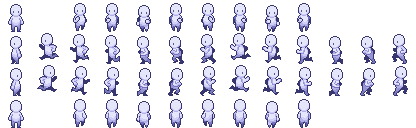
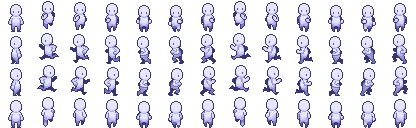
adicionado: Camera dinamica com mouse, particulas ao andar, finalizado animação de andar, update de frames do sprite baseado no tempo real ao inves dos frames atualizados e outras melhorias

diff --git a/src/elements/Dust.java b/src/elements/Dust.java
@@ -1,0 +1,64 @@
+package elements;
+
+import elements.entities.Player;
+import elements.Particle;
+import game.GamePanel;
+import utilities.Global;
+import world.World;
+
+import javax.imageio.ImageIO;
+import java.awt.*;
+import java.awt.image.BufferedImage;
+import java.io.IOException;
+import java.util.ArrayList;
+import java.util.List;
+import java.util.Random;
+
+public class Dust extends Element{
+
+    BufferedImage dust;
+    Player player;
+    Random random = new Random();
+    List<Particle> particles = new ArrayList<Particle>();
+
+    public Dust(GamePanel gp, World world, Player player){
+        super(gp,world);
+        this.player = player;
+    }
+    @Override
+    public void setAttributes() {
+        try {
+            dust = ImageIO.read(getClass().getResourceAsStream("/particles/dust.png"));
+        } catch (IOException e) {
+            e.printStackTrace();
+        }
+        setSize(16,16);
+        setAnchor(16/2,16/2);
+        setPositionByAnchor(300,300);
+        setSprite(dust);
+        sprite.moving = true;
+    }
+
+    @Override
+    public void update(double deltaTime) {
+        if(gp.kh.rightKey || gp.kh.upKey || gp.kh.downKey || gp.kh.leftKey){
+            if(random.nextInt(20) == 0){
+                particles.add(new Particle(player.getAnchorX(),player.getAnchorY() + player.height/2));
+            }
+        }
+
+        for(int i = particles.size() - 1; i >= 0; i--){
+            particles.get(i).sprite.update(deltaTime);
+            particles.get(i).scale-= 20*deltaTime;
+            particles.get(i).y-=0.5;
+            if(particles.get(i).scale <= 0)
+                particles.remove(i);
+        }
+    }
+
+    @Override
+    public void render(Graphics2D g2d) {
+        for(Particle particle : particles)
+            particle.sprite.render(g2d,(int)(particle.getX() - world.camera.x),(int)(particle.getY() - world.camera.y),(int)particle.scale,(int)particle.scale);
+    }
+}

diff --git a/src/world/Camera.java b/src/world/Camera.java
@@ -2,6 +2,8 @@ package world;
 
 import utilities.Global;
 
+import java.awt.*;
+
 public class Camera {
     public double x;
     public double y;
@@ -13,8 +15,10 @@ public class Camera {
     double screenCenterY = Global.SCREENHEIGHT/2;
     double targetX;
     double targetY;
-    double smoothing = 0.08;
+    double smoothing = 6.25;
     boolean lock = true;
+    double mouseX;
+    double mouseY;
 
     World world;
 
@@ -22,11 +26,11 @@ public class Camera {
         this.world = world;
     }
 
-    public void update(){
+    public void update(double deltaTime){
         updateTarget();
         if(lock) {
-            x += (targetX - x) * smoothing;
-            y += (targetY - y) * smoothing;
+            x += (targetX - x) * smoothing * deltaTime;
+            y += (targetY - y) * smoothing * deltaTime;
         }
     }
 
@@ -35,7 +39,22 @@ public class Camera {
     }
 
     void updateTarget(){
-        targetX = world.player.getAnchorX() - screenCenterX;
-        targetY = world.player.getAnchorY() - screenCenterY;
+        double nextTarX = world.player.getAnchorX();
+        double nextTarY = world.player.getAnchorY();
+
+        double tolerance = 3*Global.TILESIZE;
+
+        if(world.gp.cursorPoint != null) {
+            mouseX = world.gp.cursorPoint.getX();
+            mouseY = world.gp.cursorPoint.getY();
+        }
+
+        double moveX = (mouseX - screenCenterX)*0.2;
+        double moveY = (mouseY - screenCenterY)*0.2;
+
+        if(nextTarX - screenCenterX > 0 - tolerance && nextTarX + screenCenterX < world.width + tolerance)
+            targetX = world.player.getAnchorX() - screenCenterX + moveX;
+        if(nextTarY - screenCenterY > 0 - tolerance&& nextTarY + screenCenterY < world.height + tolerance)
+            targetY = world.player.getAnchorY() - screenCenterY + moveY;
     }
 }

diff --git a/src/elements/entities/Player.java b/src/elements/entities/Player.java
@@ -80,17 +80,20 @@ public class Player extends Entity {
         else {
             world.showElementsAnchor = false;
         }
+
+        sprite.update(deltaTime);
+        attack.update(deltaTime);
     }
 
     @Override
     public void render(Graphics2D g2d){
-        shadow.render(g2d,(int)(x - world.camera.x), (int)(y - world.camera.y+ 2*Global.SCALE));
+        shadow.render(g2d,(int)(x - world.camera.x), (int)(y - world.camera.y+ 2*Global.SCALE),width,height);
         if(sprite.orientation == Global.RIGHT || sprite.orientation == Global.UP) {
             renderSwordAndSlash(g2d);
         }
 
         if(!attacking)
-            sprite.render(g2d, (int)(x - world.camera.x), (int)(y - world.camera.y));
+            sprite.render(g2d, (int)(x - world.camera.x), (int)(y - world.camera.y),width,height);
         if(gp.world.showElementsAnchor)
             renderAnchor(g2d);
 
@@ -111,7 +114,7 @@ public class Player extends Entity {
         if(attacking) {
             frameCounter++;
             if(frameCounter >= 10){
-                x += 2;
+                x += 3;
             }
         }
 
@@ -186,8 +189,6 @@ public class Player extends Entity {
         //converter para graus
         angle = Math.toDegrees(angle);
 
-        System.out.println(angle);
-
         if(angle >= 45 && angle <= 135){
             setPlayerOrientation(Global.UP);
         }
@@ -204,7 +205,7 @@ public class Player extends Entity {
 
     private void renderSwordAndSlash(Graphics2D g2d){
         if (attacking)
-            attack.render(g2d, (int)(x - world.camera.x - 64*Global.SCALE), (int)(y - world.camera.y - 64*Global.SCALE));
+            attack.render(g2d, (int)(x - world.camera.x - 64*Global.SCALE), (int)(y - world.camera.y - 64*Global.SCALE),160,160);
     }
 
     private void setPlayerOrientation(int orientation){

diff --git a/src/utilities/Sprite.java b/src/utilities/Sprite.java
@@ -22,7 +22,7 @@ public class Sprite {
     float fillOpacity = 1.0f;
     float fadeTime = 0.04f;
 
-    int frameCounter;
+    double timeElapsed;
     int changeRatio;
 
     public Sprite(BufferedImage spriteSheet, int width, int height, double seconds){
@@ -32,8 +32,9 @@ public class Sprite {
 
         totalOrientation = spriteSheet.getHeight()/height;
         totalFrame = spriteSheet.getWidth()/width;
+        System.out.println(totalFrame);
 
-        changeRatio = (int)(Global.FPS*seconds/totalFrame);
+        changeRatio = (int)(Global.FPS*seconds/(totalFrame - 1));
 
         sprite = new BufferedImage[totalOrientation][totalFrame];
 
@@ -56,15 +57,20 @@ public class Sprite {
         this.frame = frame;
     }
 
-    public void render(Graphics2D g, int x, int y){
+    public void update(double deltaTime){
         if(moving)
-            frameCounter++;
+            timeElapsed += deltaTime;
         else
             frame = 0;
-        if(moving && frameCounter % changeRatio == 0)
+        if(moving && timeElapsed > (1.0/Global.FPS) * changeRatio) {
             frame++;
+            timeElapsed = 0;
+        }
         if(frame >= totalFrame)
             frame = 1;
+    }
+
+    public void render(Graphics2D g, int x, int y,int width, int height){
         g.drawImage(sprite[orientation][frame], x, y, (int)(width*Global.SCALE), (int)(height*Global.SCALE), null);
 
         if (takingDamage) {

diff --git a/src/world/World.java b/src/world/World.java
@@ -1,5 +1,6 @@
 package world;
 
+import elements.Dust;
 import elements.Element;
 import elements.entities.Player;
 import elements.entities.Slime;
@@ -25,16 +26,18 @@ public class World {
     Player player;
     Slime slime1;
     Slime slime2;
+    Dust dust;
 
     public World(GamePanel gp){
         this.gp = gp;
         player = new Player(this.gp,this);
         slime1 = new Slime(this.gp,this,player);
+        dust = new Dust(this.gp,this,player);
         elements.add(player);
-        elements.add(slime1);
+        elements.add(dust);
         tiles = new Tiles();
-        cols = 14;
-        rows = 9;
+        cols = 100;
+        rows = 100;
         world = new int[cols][rows];
         width = cols* Global.TILESIZE;
         height = rows* Global.TILESIZE;
@@ -72,7 +75,7 @@ public class World {
     }
 
     public void update(double deltaTime){
-        camera.update();
+        camera.update(deltaTime);
         for(Element elm : elements){
             elm.update(deltaTime);
         }

diff --git a/src/utilities/Global.java b/src/utilities/Global.java
@@ -1,13 +1,13 @@
 package utilities;
 
 public class Global {
-    public static final double FPS = 60;
+    public static final double FPS = 30;
     public static final double ORIGINAL_TILESIZE = 32;
     public static final double SCALE = 3;
     public static final int TILESIZE = (int)(ORIGINAL_TILESIZE*SCALE);
-    public static final int GAMECOLS = 16;                                                       // Número de Colunas
-    public static final int GAMEROWS = 9;                                                       // Número de Colunas
-    public static final int SCREENWIDTH = GAMECOLS*TILESIZE;                                     // Comprimento da Tela
+    public static final int GAMECOLS = 16;
+    public static final int GAMEROWS = 9;
+    public static final int SCREENWIDTH = GAMECOLS*TILESIZE;
     public static final int SCREENHEIGHT = GAMEROWS*TILESIZE;
 
     //variáveis pra facilitar a orientação (ordem dos spritesheets)

diff --git a/src/elements/Particle.java b/src/elements/Particle.java
@@ -1,0 +1,40 @@
+package elements;
+
+import utilities.Global;
+import utilities.Sprite;
+
+import javax.imageio.ImageIO;
+import java.awt.image.BufferedImage;
+import java.io.IOException;
+import java.util.Random;
+
+public class Particle {
+    Random random = new Random(System.nanoTime());
+    public double x;
+    public double y;
+    public double scale;
+    BufferedImage dust;
+    Sprite sprite;
+    public Particle(double x, double y){
+        scale = random.nextInt(5) + 16;
+        this.x = x;
+        this.y = y;
+
+        try {
+            dust = ImageIO.read(getClass().getResourceAsStream("/particles/dust.png"));
+        } catch (IOException e) {
+            e.printStackTrace();
+        }
+
+        sprite = new Sprite(dust,16,16,0.2f);
+        sprite.moving = true;
+    }
+
+    public double getX(){
+        return x - scale;
+    }
+
+    public double getY(){
+        return y - scale;
+    }
+}

diff --git a/src/elements/entities/Slime.java b/src/elements/entities/Slime.java
@@ -92,16 +92,18 @@ public class Slime extends Entity{
 
         if (nextX <= world.width && nextX >= 0 && nextY <= world.height && nextY >= 0)
             setPositionByAnchor(nextX,nextY);
+
+        sprite.update(deltaTime);
     }
 
     @Override
     public void render(Graphics2D g2d) {
-        shadow.render(g2d,(int)(x - world.camera.x), (int)(y - world.camera.y+ 1*Global.SCALE));
+        shadow.render(g2d,(int)(x - world.camera.x), (int)(y - world.camera.y+ 1*Global.SCALE),width,height);
         if(jumping)
             sprite.moving = true;
         else
             sprite.moving = false;
-        sprite.render(g2d,(int)(x - world.camera.x) ,(int)(y - world.camera.y));
+        sprite.render(g2d,(int)(x - world.camera.x) ,(int)(y - world.camera.y),width,height);
 
         if(gp.world.showElementsAnchor)
             renderAnchor(g2d);

diff --git a/src/game/GamePanel.java b/src/game/GamePanel.java
@@ -28,7 +28,7 @@ public class GamePanel extends Canvas  // Classe GamePanel extende Canvas
 
     Cursor c;                           // Atributo do tipo Cursor, que será usado para tratar do Mouse na janela gráfica
 
-    Point cursorPoint;                  // Atributo do tipo Point, que vai tratar o clicker do mouse na janela gráfica
+    public Point cursorPoint;                  // Atributo do tipo Point, que vai tratar o clicker do mouse na janela gráfica
 
     BufferedImage mouseImg;             // Atributo do tipo BufferedImage, usado para gerenciar as imagens e sprites
 

diff --git a/src/elements/Element.java b/src/elements/Element.java
@@ -64,7 +64,7 @@ public abstract class Element {
     public void renderAnchor(Graphics2D g2d){
         g2d.setColor(Color.yellow);
         g2d.drawRect((int)(x - world.camera.x),(int)(y - world.camera.y),(int)(width* Global.SCALE),(int)(height*Global.SCALE));
-        g2d.setColor(Color.white);
+        g2d.setColor(Color.black);
         g2d.fillRect((int)(getAnchorX() - 4 - world.camera.x),(int)(getAnchorY() - 1 - world.camera.y),8,2);
         g2d.fillRect((int)(getAnchorX() - 1 - world.camera.x),(int)(getAnchorY() - 4 - world.camera.y),2,8);
     }

diff --git a/src/game/GameLoop.java b/src/game/GameLoop.java
@@ -38,7 +38,7 @@ public class GameLoop implements Runnable {
         while (true) {
             start = System.nanoTime();
 
-            deltaTime = (System.nanoTime() - lastTime) / 1_000_000_000;
+            deltaTime = (start - lastTime) / 1_000_000_000;
             lastTime = start;
 
             // Limita deltaTime máximo
